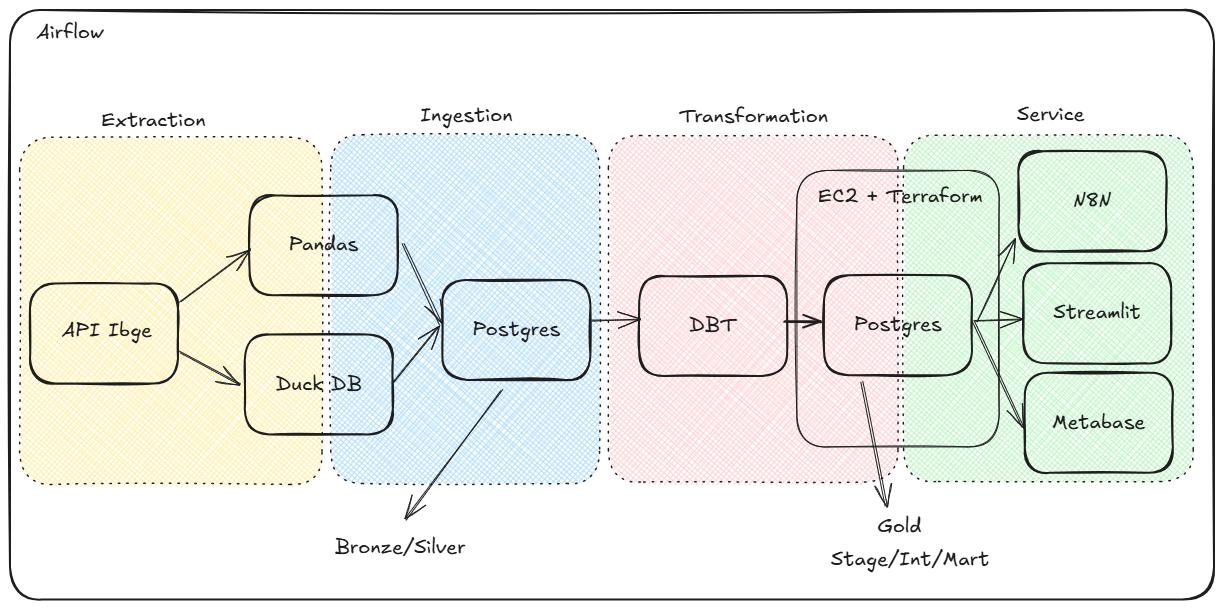
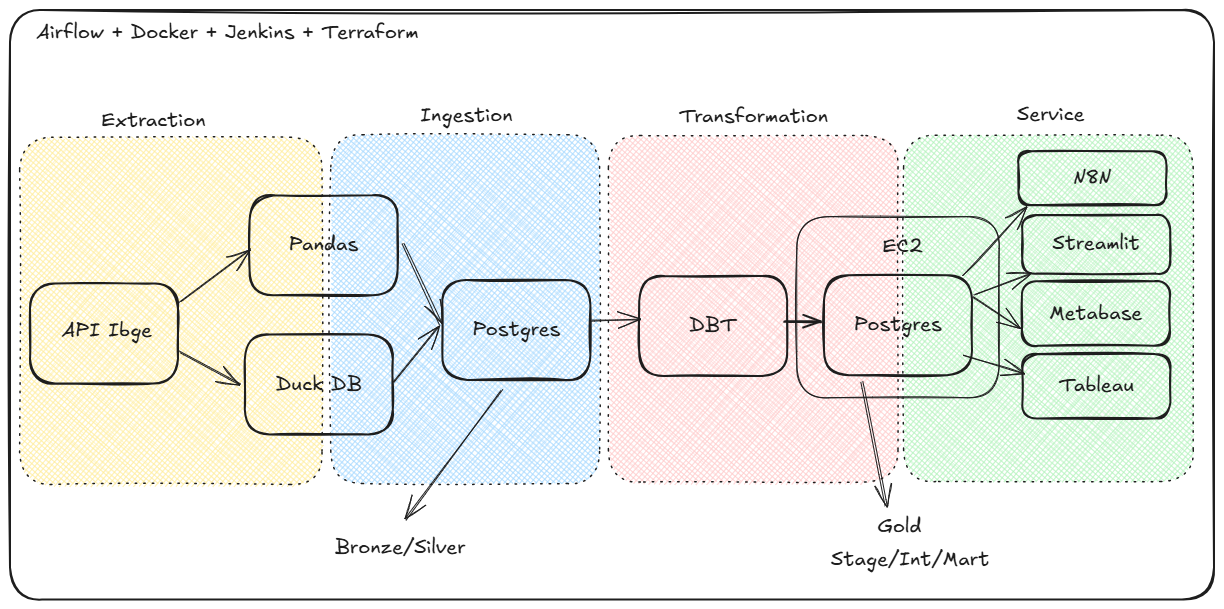
readme

diff --git a/README.md b/README.md
@@ -45,6 +45,9 @@ Here are some commonly used Linux commands for navigating and managing files and
 - `mkdir <directory>` — Creates a new directory.  
 - `sudo` — Runs a command with superuser (admin) privileges.
 - `chmod` — Aumentar a permissão de um arquivo. 
+- `pkill -f <"process">` — To kill a running process if needed (replace <process> with the name or pattern).
+- `lsof -i :<port>` — Find the procces using the port.
+- `kill -9 <pid>` — Kill the process.
 </details>
 <details>
 <summary> Python Setup </summary>
@@ -217,72 +220,29 @@ To deploy an EC2 instance using **Terraform**, refer to the [main.tf](project1/i
 
 **dbt** (data build tool) is a command-line tool that enables data teams to transform, test, and document data in the warehouse using modular SQL and software engineering practices.
 
-- Install DBT:
-  ```bash
-  pip install dbt-postgres
-- Configure:
-  ```bash
-  dbt init
-- Check configuration:
-  ```bash
-  dbt debug
-- Editing profiles.yml (The profiles.yml file in dbt (data build tool) is a configuration file that stores the connection settings needed for dbt to access your data warehouse):
-  ```bash
-  cd ~/.dbt
-  nano profiles.yml
-- Run the models without tests (--select to select a specific model):
-  ```bash
-  dbt run
-- Run all objects (--select to select a specific object):
-  ```bash
-  dbt build
-- Test the models (--select to select a specific model):
-  ```bash
-  dbt test
-- Import the seeds file to the database (--select to select a specific model):
-  ```bash
-  dbt seed
-- Update dbt
-  ```bash
-  pip install --upgrade dbt-core
-- Use the `dbt build` command to run all the dbt models, thus creating all the tables with their metadata according to the SQL queries defined.
+- `pip install dbt-postgres` — Install DBT.
+- `dbt init` — Configure DBT.
+- `dbt debug` — Check configuration.
+- `cd ~/.dbt && nano profiles.yml` — Editing profiles.yml (The profiles.yml file in dbt (data build tool) is a configuration file that stores the connection settings needed for dbt to access your data warehouse).
+- `dbt run` — Run the models without tests (--select to select a specific model).
+- `dbt build` — Run all objects (--select to select a specific object).
+- `dbt test` — Test the models (--select to select a specific model).
+- `dbt seed` — Import the seeds file to the database (--select to select a specific model).
+- `pip install --upgrade dbt-core` — Update DBT.
 </details>
 <details>
 
 <summary> Docker </summary>
 
-sudo apt remove docker docker-engine docker.io containerd runc
-sudo apt update
-sudo apt install -y ca-certificates curl gnupg lsb-release
-
-# Adiciona a chave GPG
-sudo mkdir -m 0755 -p /etc/apt/keyrings
-curl -fsSL https://download.docker.com/linux/ubuntu/gpg | sudo gpg --dearmor -o /etc/apt/keyrings/docker.gpg
-
-# Adiciona o repositório Docker oficial
-echo \
-  "deb [arch=$(dpkg --print-architecture) signed-by=/etc/apt/keyrings/docker.gpg] \
-  https://download.docker.com/linux/ubuntu \
-  $(lsb_release -cs) stable" | \
-  sudo tee /etc/apt/sources.list.d/docker.list > /dev/null
-
-# Atualiza e instala o Docker Engine
-sudo apt update
-sudo apt install -y docker-ce docker-ce-cli containerd.io docker-buildx-plugin docker-compose-plugin
-
-Dar permissão para usuario executar o docker
-sudo usermod -aG docker $USER
-
-- Comando para ativar o docker
-  docker compose up
-- Comando para desativar o docker
-  docker compose down
-
-  - Verificar se containers estão rodando: docker compose -f docker_compose.yml ps
-- Use este comando para verificar os logs
-  docker compose -f docker_compose.yml logs -f docker_name
-- Para acessar o terminal de um docker
-  docker exec -it docker-airflow-webserver-1 bash
+- `sudo mkdir -m 0755 -p /etc/apt/keyrings && curl -fsSL https://download.docker.com/linux/ubuntu/gpg | sudo gpg --dearmor -o /etc/apt/keyrings/docker.gpg` — Add GPG key.
+- `echo \"deb [arch=$(dpkg --print-architecture) signed-by=/etc/apt/keyrings/docker.gpg] \ https://download.docker.com/linux/ubuntu \ $(lsb_release -cs) stable" | \ sudo tee /etc/apt/sources.list.d/docker.list > /dev/null` — Add the docker official repository.
+- `sudo apt update && sudo apt install -y docker-ce docker-ce-cli containerd.io docker-buildx-plugin docker-compose-plugin` — Update and install the docker engine.
+- `sudo usermod -aG docker $USER` — Giver permission to the user to run docker.
+- `docker compose up` — Activate docker.
+- `docker compose down` — Deactivate docker.
+- `docker compose -f docker_compose.yml ps` — View containers online.
+- `docker compose -f docker_compose.yml logs -f docker_name` — Check the logs.
+- `docker exec -it docker-airflow-webserver-1 bash` — Access docker.
 </details>
 <details>
 
@@ -290,69 +250,8 @@ sudo usermod -aG docker $USER
 
 **Apache Airflow** is an open-source platform used to programmatically author, schedule, and monitor workflows—especially data pipelines—by defining them as code using Python.
 
-- Install Airflow with Celery Executor (version pinned with constraints):
-  ```bash
-  pip install "apache-airflow[celery]==3.0.2" --constraint "https://raw.githubusercontent.com/apache/airflow/constraints-3.0.2/constraints-3.9.txt"
-- Start the Airflow API server (default port is 8080; use -p to specify another):
-  ```bash
-  airflow api-server -p 9090
-- Access Airflow via the following URL: `localhost:9090`
-- Install the Airflow + Jenkins integration provider:
-  ```bash
-  pip install apache-airflow-providers-jenkins
-- Set the `SQL_ALCHEMY_CONN` to connect Airflow to a remote PostgreSQL (EC2):
-  ```bash
-  export AIRFLOW__DATABASE__SQL_ALCHEMY_CONN=postgresql+psycopg2://airflow:sua_senha_segura@<ip-da-ec2>:5432/airflow
-- nstall the async PostgreSQL client library:
-  ```bash
-  pip install asyncpg
-- pip install apache-airflow[cncf.kubernetes]
-  ```bash
-  pip install apache-airflow[cncf.kubernetes]
-- Redirect Airflow to your custom DAGs folder:
-  ```bash
-  export AIRFLOW__CORE__DAGS_FOLDER=/caminho/completo/para/sua/pasta/dags
-- Disable DAG filename filtering (allows DAGs without "dag"/"airflow" in the filename):
-  ```bash
-  export AIRFLOW__CORE__DAG_DISCOVERY_SAFE_MODE=False
-- Allow API connection
-  ```bash
-  export AIRFLOW__API__AUTH_BACKENDS: airflow.api.auth.backend.basic_auth
-- Prevent Airflow from loading example DAGs on startup:
-  ```bash
-  export AIRFLOW__CORE__LOAD_EXAMPLES=False
-- `echo $VARIABLE_NAME`Use this command to check the value of an environment variable.
-- If the Airflow UI fails to load, install this dependency:
-  ```bash
-  pip install flask-appbuilder
-- Airflow requires several parallel processes — run them after the API server:
-  - DAG Processor:
-  ```bash
-  airflow dag-processor
-  ```
-  - Scheduler:
-  ```bash
-  airflow scheduler
-  ```
-  - Dag Trigger:
-  ```bash
-  airflow triggerer
-  ```
-  - Airflow worker:
-  ```bash
-  airflow celery worker
-  ```
-  - To kill a running process if needed (replace <process> with the name or pattern):
-  ```bash
-  pkill -f <"process">
-  ```
-  - If a port is already in use, find and release it:
-  ```bash
-  `lsof -i :<port>`
-  `kill -9 <pid>`
-  ``` 
-- `airflow dags list` use to list all discovered DAGs.
-- `airflow dags unpause <dag>` to unpause (activate) a specific DAG.
+- `airflow dags list` — Use to list all discovered DAGs.
+- `airflow dags unpause <dag>` — To unpause (activate) a specific DAG.
 - Python script to verify DAG imports manually:
   ```bash
   from airflow.models import DagBag
@@ -360,10 +259,8 @@ sudo usermod -aG docker $USER
   dagbag.dags.keys()
   dagbag.import_errors
   ```
-- Verificar se airflow encontrou as dags
-  docker exec docker-airflow-webserver-1 ls /opt/airflow/dags
-- Verificar erros de importação das dags
-  docker exec -it docker-airflow-webserver-1 airflow dags list-import-errors
+- `docker exec docker-airflow-webserver-1 ls /opt/airflow/dags` — Check if airflow find the dags.
+- `docker exec -it docker-airflow-webserver-1 airflow dags list-import-errors` — Check the import errors.
 </details>
 <details>
 
@@ -371,37 +268,8 @@ sudo usermod -aG docker $USER
 
 **Jenkins** is an open-source automation server that helps developers build, test, and deploy their software continuously. In this project, we will only use jenkins to perform a manual execution of the airflow dags.
 
-- Create the keyrings folder (for secure APT keys):
-  ```bash
-  sudo mkdir -p /etc/apt/keyrings
-- Updating system packages:
-  ```bash
-  sudo apt update && sudo apt upgrade
-- Install Java (required by Jenkins):
-  ```bash
-  sudo apt install openjdk-17-jdk
-- Configurate Jenkins repository key:
-  ```bash
-  curl -fsSL https://pkg.jenkins.io/debian/jenkins.io-2023.key | gpg --dearmor | sudo tee /etc/apt/keyrings/jenkins.gpg > /dev/null
-- Dowload and register the Jenkins repository:
-  ```bash
-  echo "deb [signed-by=/etc/apt/keyrings/jenkins.gpg] https://pkg.jenkins.io/debian binary/" | sudo tee /etc/apt/sources.list.d/jenkins.list > /dev/null
-- Update APT sources and install Jenkins:
-  ```bash
-  sudo apt update
-  sudo apt install jenkins
-- Start Jenkins to run at boot:
-  ```bash
-  sudo systemctl start jenkins
-- Access Jenkins using your browser at: http://localhost:8080
-- Check the initial admin password (required for first login):
-  sudo cat /var/lib/jenkins/secrets/initialAdminPassword
-- Dowload the Jenkins CLI:
-  wget http://localhost:8080/jnlpJars/jenkins-cli.jar
-- Test the CLI connection and list available commands:
-  java -jar jenkins-cli.jar -s http://localhost:8080/ help
-- Use este comando para pegar a senha do jenkins:
-  docker exec docker-jenkins-1 cat /var/jenkins_home/secrets/initialAdminPassword
+- `sudo cat /var/lib/jenkins/secrets/initialAdminPassword` — Check the initial admin password.
+- `docker exec docker-jenkins-1 cat /var/jenkins_home/secrets/initialAdminPassword` — In docker.
 </details>
 <details>
 
@@ -413,9 +281,8 @@ sudo usermod -aG docker $USER
 
 **Streamlit** is an open-source Python framework that allows you to quickly build and share interactive web apps for data science and machine learning projects using simple Python scripts.
 
-- Install streamlit
-  ```bash
-  pip install streamlit psycopg2-binary plotly
+- `pip install streamlit psycopg2-binary plotly` — Install streamlit.
+> Most configurations need to be done in the browser.
 </details>
 <details>
 
@@ -423,18 +290,10 @@ sudo usermod -aG docker $USER
 
 **N8N** is an open-source workflow automation tool that lets you connect apps, services, and custom logic to automate tasks and data flows—without needing to write full applications.
 
-- Installing NodeJS
-  ```bash
-  sudo apt install nodejs
-- Installing NPM
-  ```bash
-  sudo apt install npm
-- Installing N8N
-  ```bash
-  npm install n8n -g
-- Opening N8N
-  ```bash
-  n8n
+- `sudo apt install nodejs` — Installing NodeJS (N8N requirements).
+- `sudo apt install npm` — Installing NPM (N8N requirements).
+- `npm install n8n -g` — Installing N8N.
+- `n8n` — Opening N8N.
 </details>
 
 # Project 1 
@@ -456,12 +315,13 @@ The tech stack included: PostgreSQL, EC2, Airflow, Terraform, Streamlit, Metabas
 Project:
 ![alt text](project1/doc/project1_structure.png)
 
+![alt text](image.png)
 Dimensional model:
 ![alt text](project1/doc/model.png)
 
 ## Steps
 
-1. Using linux bash install the applications necessaire: AWS CLI, Python, VS Code, Terraform, Docker, DBT, Tableau e N8N. 
+1. Using the Linux terminal, install the necessary programs.: AWS CLI, Python, VS Code, Terraform, Docker, DBT, Tableau e N8N. 
 > I chose to work with Linux to deepen my understanding of the operating system. However, I opted for WSL (Windows Subsystem for Linux) to maintain compatibility with essential tools like Tableau, which aren't supported on Linux.
 2. Create the file [population_extraction.py](project1/pipeline/1.extraction/population_extraction.py) to extract the data from the ibge api and stores it in duckdb.
 3. Create the file [main.tf](project1/infra/main.tf) with the specifications of the remote environment you want to create.
@@ -478,8 +338,8 @@ Dimensional model:
 > Workflow design
 ![alt text](project1/doc/n8n.png)
 10. Create the files [docker_compose.yml](project1/infra/docker/docker_compose.yml) and [Dockerfile](project1/infra/docker/Dockerfile) to activate airflow.
-11. Create the file [start_project1.sh](project1/start_project1.sh) para que execute todas estas etapas com um unico comando.
-12. Use o jenkins como gatilho para executar a dag. [jenkinsfile](project1/jenkinsfile) e [airflow_pipeline.sh](project1/airflow_pipeline.sh)
+11. Create the file [start_project1.sh](project1/start_project1.sh) to execute the step with one command.
+12. Use jenkins to trigger the dag. [jenkinsfile](project1/jenkinsfile) e [airflow_pipeline.sh](project1/airflow_pipeline.sh)
 > In jenkins the process should appear like this:
 ![alt text](project1/doc/jenkins.png)
 > In the airflow the dag should appear like this:
